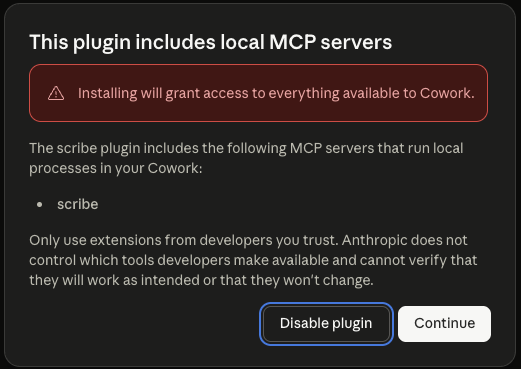
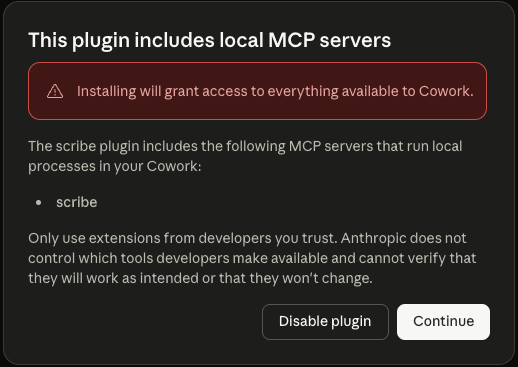
docs: split README install path by audience (Cowork vs Code)
Reframes the install section around who's doing what — Cowork for note creators (stakeholders, SMEs), Claude Code for note consumers (engineers) — and points each path at the right SETUP.md anchor. Also refreshes the MCP-server confirmation screenshot.

diff --git a/README.md b/README.md
@@ -10,25 +10,46 @@ GigaSoftware's plugin marketplace for [Claude Cowork](https://claude.ai) and [Cl
 
 More plugins to follow.
 
-## Install
+---
 
-> **First time using a Claude plugin?** Read **[SETUP.md](SETUP.md)** first — it walks through everything from scratch (developer tools, GitHub access, cloning a repo, installing the plugin) for non-developers.
+## Install in Claude Cowork — for end users, stakeholders, and note-takers
 
-If you've installed Claude plugins before and your machine is already set up, the short version: in a Cowork or Claude Code chat, run
+If your role is to **create** the notes — product owners, stakeholders, subject-matter experts, documentarians, anyone primarily *talking through* their work in Claude and capturing it for the team — install via Claude Cowork. Cowork is the desktop chat app and is the right surface for conversation-first note capture.
 
-```
-/plugin marketplace add GiGaSoftwareDevelopment/claude-marketplace
-```
+> **First time installing a Claude plugin on this computer?** Follow **[SETUP.md](SETUP.md)** end-to-end — a non-developer walkthrough covering developer tools, GitHub access, downloading the plugin, and uploading it into Cowork. Includes screenshots for every step.
 
-then install whichever plugin you want:
+If your machine is already set up and you've installed plugins from this marketplace before, the short version:
 
-```
-/plugin install scribe@gigasoftware-marketplace
-```
+1. Download the latest plugin zip from [Releases](https://github.com/GiGaSoftwareDevelopment/claude-marketplace/releases) (the [SETUP.md install step](SETUP.md#step-6a--for-cowork-users-recommended-for-non-developers) has the direct link for the current version).
+2. In Cowork: **Customize → Personal plugins → +  → Upload plugin**, drop the zip in.
+3. Quit and reopen Cowork.
+4. In a new chat, configure the plugin against your local notes repo (e.g., *"Configure scribe to save my notes to ~/Dev/&lt;your-repo&gt;"*).
 
-After installing, **fully quit and relaunch your Claude client** so the plugin's tools and skill load. Updates land via `/plugin marketplace update` later.
+---
 
-Each plugin's directory has its own `README.md` with usage and configuration. Start there once installed.
+## Install in Claude Code — for the software development team
+
+If your role is to **consume** the notes — engineers reading other stakeholders' captures, searching across the repo, processing notes as training data, building tools on top of the corpus, or contributing notes during feature work — install via Claude Code. Code is the CLI client and is the right surface for repo-aware engineering work.
+
+If you don't have Claude Code installed yet, the [SETUP.md install step](SETUP.md#step-6b--for-claude-code-users) has the canonical install commands for Mac and Windows. Otherwise:
+
+1. In a Claude Code session, run:
+   ```
+   /plugin marketplace add GiGaSoftwareDevelopment/claude-marketplace
+   ```
+   ```
+   /plugin install scribe@gigasoftware-marketplace
+   ```
+2. Exit and relaunch Claude Code (`/quit` then `claude`) so the plugin loads.
+3. Configure the plugin against your local notes repo (e.g., *"Configure scribe to save my notes to ~/Dev/&lt;your-repo&gt;"*).
+
+Updates land later via `/plugin marketplace update`.
+
+---
+
+Each plugin's directory has its own `README.md` with usage details and configuration options. Start there once installed.
+
+For maintainers cutting new releases of plugins in this marketplace, see [RELEASE.md](RELEASE.md).
 
 ## License
 
